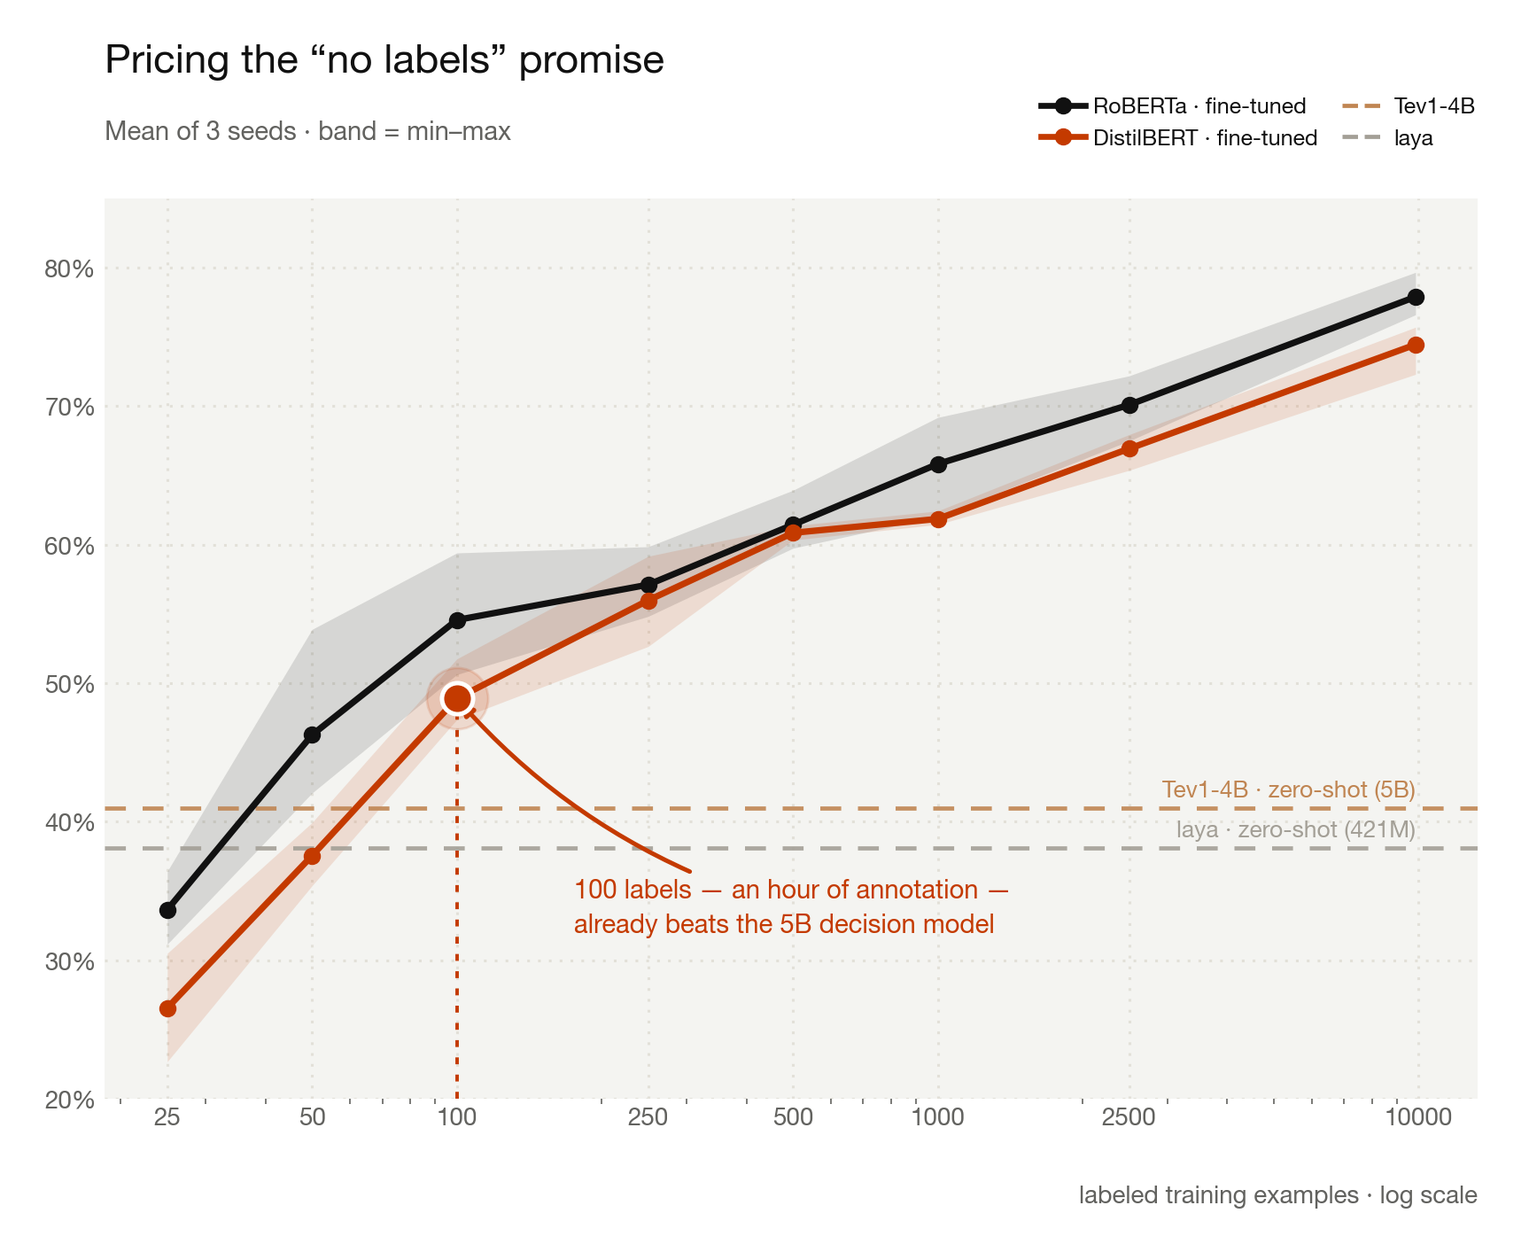
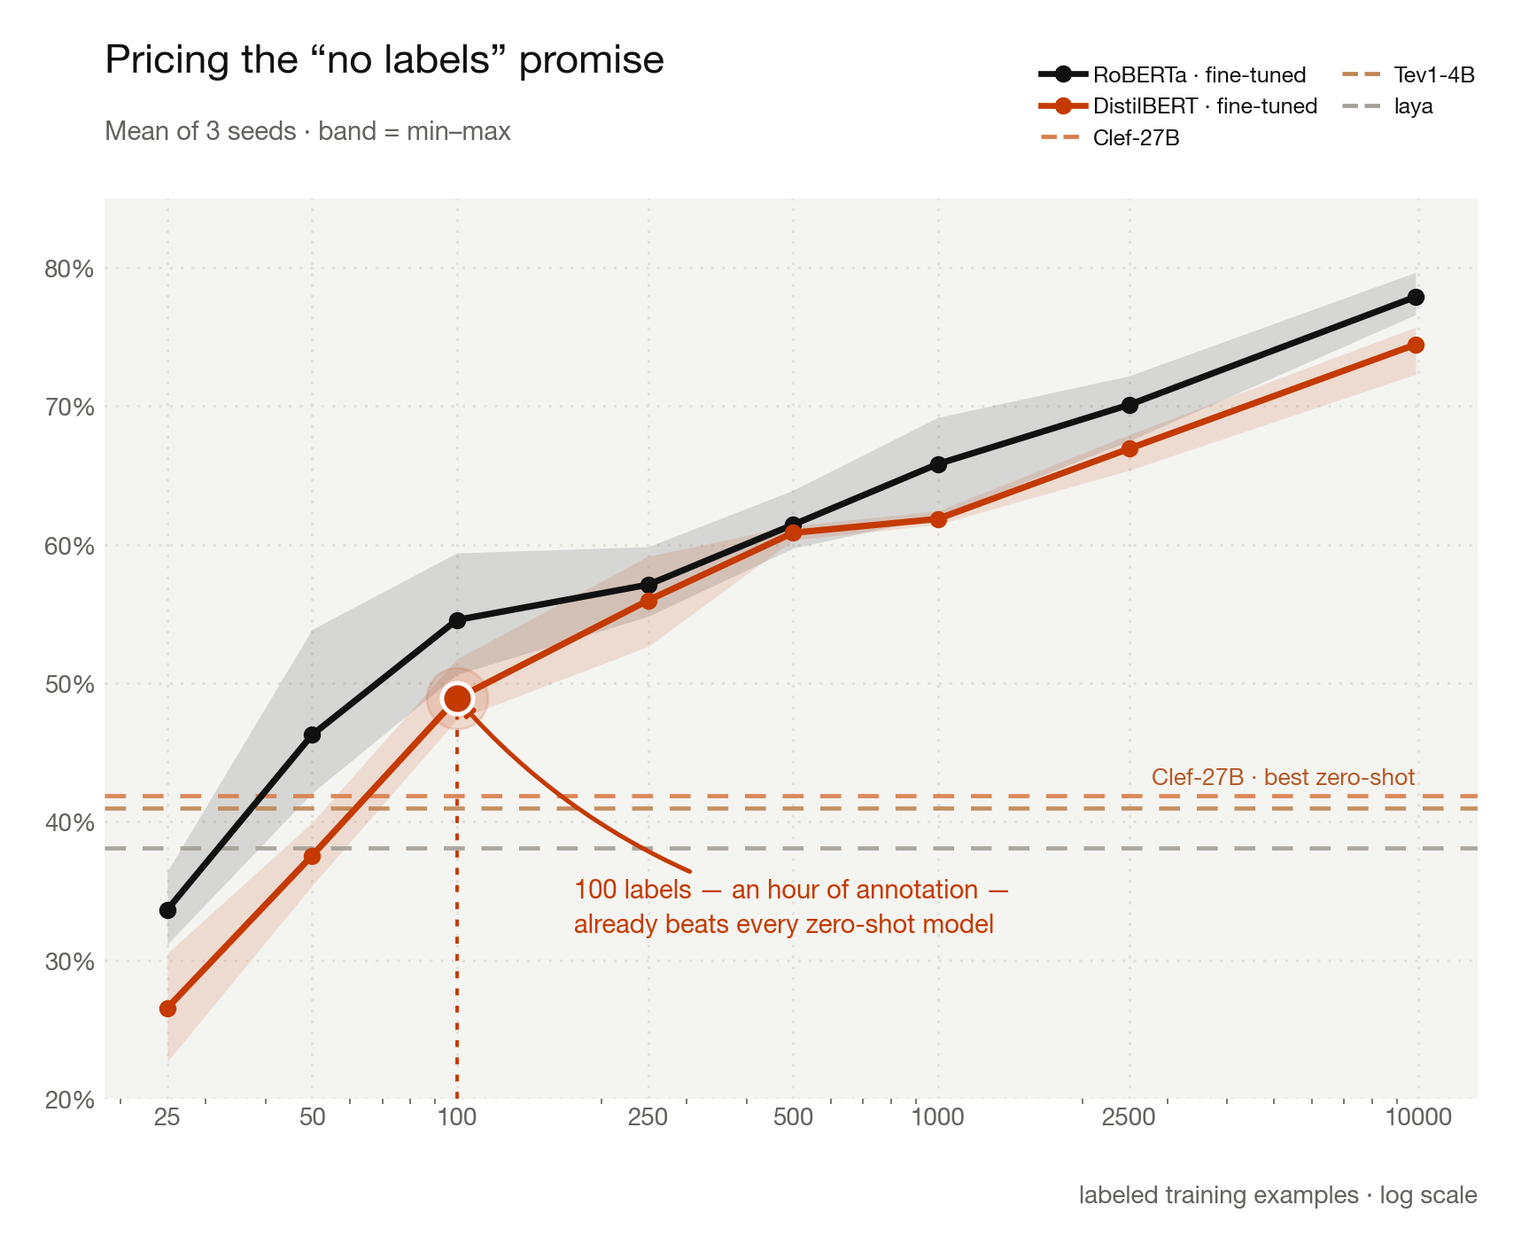
[_posts] - feature: introduce zero-shot plateau analysis
- Added a new post analyzing the performance of various zero-shot models compared to fine-tuned encoders, highlighting the limitations and potential of current approaches.
 - Updated existing post with corrected details on model performance metrics and comparisons to reflect more accurate findings.

diff --git a/_posts/2026-10-12-zero-shot-plateau.md b/_posts/2026-10-12-zero-shot-plateau.md
@@ -1,0 +1,232 @@
+---
+title: "The Zero-Shot Plateau"
+tags: [ blog, nlp, benchmark ]
+date: 2026-10-12
+last_modified_at: 2026-10-12
+---
+
+<img src="{{ '/assets/images/zero-shot-plateau-dumbbell.png' | relative_url }}" alt="Dumbbell chart: seven zero-shot systems from 0.4B to 27B cluster at 0.38-0.47 macro-F1 on a custom taxonomy and at 0.88-0.93 on AG News, all far below a fine-tuned RoBERTa at 0.78" width="1891" height="1158" fetchpriority="high">
+
+My [last post][prev] made a narrow claim: on a classification taxonomy of my own, a
+fine-tuned encoder beats the zero-shot "decision models" everyone shipped this autumn by
+about 30 macro-F1 points, at a fraction of the cost. Four objections fairly came up, all some
+version of "you went easy on the zero-shot side":
+
+- Use a bigger or better zero-shot model.
+- Fine-tune the decision model, then.
+- Escalate the hard cases to a frontier LLM.
+- Route on the confidence scores instead of taking the top label.
+
+So I ran all four on the same dataset split.  The short spoiler: two of the four roads dead-end on the same
+plateau, one works but mostly proves the labels were the point all along, and the last  one works.
+
+Same disclosure as before, so you can discount accordingly: my dataset, my label mapping,
+my class descriptions. Every number shares one seed-42 stratified split (1,232 test
+items), body-only input, macro-F1.
+
+## "Use a bigger zero-shot model"
+
+The obvious gap in the first post was that I never tried a general-purpose LLM. So I added
+Claude Haiku 5.5, which Anthropic had [just repriced][haiku] to $0.10 per million input
+tokens and markets for exactly this: _high-volume classification and routing_. Gave it the same five
+label descriptions every decision model got, without examples.
+
+It scored 0.409, right in the middle of the decision-model pack.
+Here is the whole zero-shot field now, seven systems from 0.4B to 27B parameters, plus two
+that don't disclose a size:
+
+| System | Params | tldr_news (custom) | AG News (benchmark) |
+|---|---|---:|---:|
+| laya | 0.4B | 0.381 | 0.929 |
+| Jev (API) | undisclosed | 0.407 | 0.884 |
+| Haiku 5.5 | generalist | 0.409 | 0.899 |
+| Tev1-4B | ≈5B | 0.410 | 0.896 |
+| Strands Decider | 2B | 0.418 | 0.902 |
+| Clef | 27B | 0.419 | 0.904 |
+| clef-flash | 9B | 0.466 | 0.904 |
+
+From a 0.4B router to a 27B joint-head model to a general-purpose LLM, every zero-shot approach
+lands between 0.38 and 0.47 on my taxonomy and jumps to 0.88-0.93 on AG News. A
+fine-tuned RoBERTa sits at 0.78 on the same split, 30 to 40 points above the entire field,
+for seven cents of training.
+
+The ceiling is informational, a one-line description like
+"Business & Strategy: company news, markets, funding rounds" pins down maybe 40% of my
+editorial calls; the rest lives in conventions that exist only in my labels. No count of
+parameters recovers information that was never in the prompt, and piling in examples only
+inches off the shelf ¹. Cloudflare's distilled 9B clef-flash is the mild exception at 0.47,
+and it still sits over 30 points under RoBERTa. The odd part is that it beats its own 27B
+teacher off-distribution ². My best guess is that the bigger model memorized the training
+mixture harder, which helps on AG News and hurts on mine.
+
+## "Fine-tune the decision model, then"
+
+It was kind of expected that a fine-tuned decider beats a zero-shot one. The real question is
+whether the decision-model architecture (the non-autoregressive head, the calibration training)
+buys anything over a plain encoder once you've spent the labels. So I LoRA-fine-tuned Tev1-4B, same
+prompt format as its zero-shot run, and put it on the label-efficiency curve next to the
+encoders.
+
+<img src="{{ '/assets/images/zero-shot-plateau-labelcurve.png' | relative_url }}" alt="Label-efficiency curves: fine-tuned Tev1-4B starts at 0.45 at 25 labels, RoBERTa catches up by 100 labels, the fine-tunes climb far above the shaded zero-shot band while Haiku's in-context exemplar curve edges just above it and flattens" width="1783" height="1278" loading="lazy">
+
+The honest answer has two halves. The 4B's pretrained prior is a real head start: at 25
+labels it reaches 0.45 while DistilBERT is still at 0.27, because a big model generalizes
+from a handful of examples where a small one is out of its depth. So if you have twenty-five labels and an
+afternoon, the fine-tuned decider is genuinely your best option.
+
+But by 100 labels RoBERTa has drawn level, 0.55 to 0.55, and from there the two curves climb 
+together: the 4B keeps a lead of about two points at
+1,000 labels and at full data (0.80 vs 0.78), a margin about the size of the seed-to-seed
+variance on these curves, for a model that costs seventeen times as much per inference ³.
+Its one lasting edge is calibration: it comes out of fine-tuning at ECE 0.036 with no
+post-hoc scaling, which the encoders need a temperature fit to match. So "fine-tune the
+decider" works. Past about a hundred labels, though, you're paying 4B inference for encoder
+accuracy.
+
+The dashed line in the chart is the third way to spend the same labels: hand them to
+Haiku as in-context exemplars instead of gradients. It follows the zero-shot band until
+about 50 examples, reaches 0.49 at 100, then flattens. A thousand exemplars, about 146k
+tokens of prompt, get it to 0.51, where the same thousand labels fine-tune Tev to 0.68 and
+RoBERTa to 0.66. And every single call re-reads all thousand ¹.
+
+## "Escalate the hard cases"
+
+Now the pattern of the season: let a cheap model answer what it's sure of and route the
+rest to a big one. It's the idea behind every cascade-routing stack shipping right now ⁴,
+and the idea has deep roots. Confidence-based cascading was everywhere in the BERT era:
+[TangoBERT][tango] routed between a small and a large BERT on exactly this signal,
+[CascadeBERT][cascadebert] stacked calibrated models, and the early-exit line (FastBERT,
+DeeBERT, my own [early-exiting series][ee]) did the same trick across layers instead of
+across models. The modern router just puts a decision model in front. All of it rests on
+one assumption the plateau quietly breaks: that the thing you escalate to is better than
+the thing you have.
+
+<img src="{{ '/assets/images/zero-shot-plateau-cascade.png' | relative_url }}" alt="Cascade accuracy versus share escalated to Haiku 5.5: fine-tuned encoder first stages decline from 0.75 toward 0.41 as more is escalated, while zero-shot decider first stages stay flat near 0.41" width="1822" height="1278" loading="lazy">
+
+I simulated every cascade offline. Each first stage answers when its top class probability
+clears a confidence threshold and escalates whatever falls below it, swept across every
+threshold. The routing signal is just the model's own max label probability. Two shapes
+come out. If your first stage is a zero-shot decider, the day-one setup, escalation buys
+nothing: Tev and Clef gain at most 0.4 points at any threshold, and laya only "gains" by
+escalating 91% of its traffic, which is really just handing the whole stream to Haiku. The
+model you escalate to sits on the same plateau; there's nothing above you. If your first
+stage is already a fine-tune, escalation actively hurts: the fine-tune is right 75% of the
+time and Haiku 39%, and even on the low-confidence items the fine-tune hands off, it still
+beats Haiku. So the cascade slides from 0.75 toward 0.39 as you escalate more.
+
+The decline itself is unsurprising; the interesting part is why confidence can't rescue
+it. The errors do decorrelate: an oracle that escalated exactly the fine-tune's mistakes
+would reach 0.84, because Haiku rescues about a third of them. But the items the fine-tune
+is unsure about are mostly the items Haiku gets wrong too, the genuinely ambiguous ones
+that no second opinion resolves, so the confidence signal escalates the wrong examples. And
+it escalates them expensively: every call up to Haiku is roughly $85 per million on top of
+the fine-tune's $1.58, spent to move accuracy backwards. The oracle gap is real and
+permanently out of reach. That's the cascade's hidden dependency made visible: it only
+works when something above you knows your labels. In-distribution something does, which is
+why the pattern works on benchmark-shaped tasks, and why it worked across the layers of the
+BERT cascades, where every exit trained on the same data. On your taxonomy, nothing does
+until you teach it.
+
+## "Route on the confidence scores"
+
+The last objection is the one that works, and it's worth slowing down on, because the
+instinct is right. Routing on confidence is exactly what you should do. The twist is the
+destination: you route the uncertain items to a human, not a bigger model. And whether
+that pays off depends on a property you can measure: does the model know what it doesn't
+know?
+
+<img src="{{ '/assets/images/zero-shot-plateau-coverage.png' | relative_url }}" alt="Bar chart: with validation-chosen thresholds, fine-tuned models auto-handle 39-72% of traffic at the 90% accuracy bar while zero-shot decision models keep under 5%; the same Tev architecture goes from 2% zero-shot to 72% fine-tuned" width="1981" height="1123" loading="lazy">
+
+Sort each model's predictions by confidence and ask how much traffic it can keep for
+itself while staying at least 90% accurate on what it keeps, sending the rest to review.
+To keep it honest, each model's confidence threshold is picked on a held-out validation
+half and then applied, frozen, to the test set. The fine-tuned models carry between a
+third and nearly three quarters of the stream, and their thresholds transfer: kept-item
+accuracy lands within about a point of the bar. The zero-shot decision models, whose
+signature feature is calibrated confidence, keep under 5%, and apart from clef-flash even
+that sliver misses the promise, coming back 69-73% accurate on the items they chose to
+keep.
+
+The cleanest version of the result is the same model twice. Zero-shot, Tev1-4B keeps 2%
+of traffic and is only 71% accurate even on that slice; fine-tuned on my labels, the
+identical architecture keeps 72% and holds the bar. The deciders' calibration machinery is
+genuinely good (Clef's Brier training is excellent in-distribution), but calibration
+leaves the training distribution no better than accuracy does. Across the full confidence
+range the fine-tunes score an area under the risk-coverage curve of 0.07 to 0.14, against
+0.44 to 0.57 for the zero-shot field ⁵. On top of being more accurate, the fine-tune is a
+three-to-eight-times better judge of its own limits, which is the property a router
+actually runs on.
+
+The intuition: a probability is only as trustworthy as the model's sense of where the
+decision boundary lies. Fine-tuning on in-domain labels is what draws that boundary in the
+right place, so the model's confidence starts tracking its correctness on your data, and
+high confidence really does mean likely-right, the one property selective routing needs. A
+zero-shot model is sure about a boundary it learned from someone else's distribution, so on
+your taxonomy its confidence ranks examples by the wrong thing and no threshold cleanly
+separates the predictions worth keeping. That is why the same Tev is useless as a router at
+zero-shot and dependable once fine-tuned: the labels are what make its confidence
+mean something here.
+
+## Where each approach fits
+
+The previous post's conclusion holds; this one fills in the details. Zero-shot decision
+models, and Haiku 5.5 alongside them, are the right call on day one: no labels, a taxonomy
+still in motion, many small tasks behind one endpoint, and anything close to a benchmark
+distribution, where they're fast, cheap, and honestly calibrated.
+
+The moment the taxonomy is yours, every road runs through labels. Twenty-five of them and
+a fine-tuned 4B decider is the best start you can buy. A hundred and a fine-tuned encoder
+matches anything in the field at a fraction of the cost. And the labels are not optional
+even if you stay zero-shot, because the only way to know whether any of this works on your
+data is a labeled eval set, at which point a fine-tune costs seven cents more than the
+measurement you were already paying for, and it's the only option that also knows when to
+ask for help.
+
+The obvious caveat is that this is one dataset: five classes, my labels, my class
+descriptions. Better-written descriptions might move the zero-shot field a few points, and
+a taxonomy closer to news-desk categories would move it a lot, as AG News shows. What I'd
+bet on is the shape: zero-shot scores track how far your labels sit from what the model saw
+in pretraining, and only labels close that distance. The cheapest way to prove me wrong is
+to run the same four roads on your own data.
+
+---
+
+¹ Haiku takes exemplars where the frozen deciders can't, so I swept them: 1, 10, 20, 50,
+100, 300 and 1,000 stratified in-context exemplars score 0.419, 0.435, 0.429, 0.461,
+0.486, 0.504 and 0.515. The climb is real up to about a hundred, then it flattens. At
+1,000 examples Haiku sits 17 points under the Tev fine-tune and 14 under RoBERTa on the
+same labels, and carries ~146k exemplar tokens into every call: roughly $15,000 per
+million classifications at list price, still ~$1,500 with prompt caching, against $1.58
+for the better model.
+
+² clef-flash 0.466 vs Clef 0.419 on my taxonomy, and it's 2.2× faster (152 ms vs 341 ms,
+batch 1 on an H100).
+
+³ About $27 vs $1.58 per million classifications, from the cost model in the
+[previous post][prev].
+
+⁴ For example vLLM-SR's ["decision models need a router"][router], which cascades a small
+decider into a large one on low confidence.
+
+⁵ Area under the risk-coverage curve, lower is better. Fine-tuned Tev 0.07, RoBERTa 0.12,
+DistilBERT 0.14; Clef and clef-flash 0.44, Strands 0.44, Tev zero-shot 0.50, laya 0.57.
+
+**Reproducibility.** Same harness as the [previous post][prev]. Encoders fine-tuned with
+[bert-squeeze][bs] on a Modal L4; laya and Tev zero-shot on L4/T4; Clef and clef-flash
+from their open weights on an H100; Strands Decider from its package on an L4; the Tev
+LoRA fine-tune and sweep on an H100; Haiku 5.5 via the Batch API with a structured-output
+label enum, except the many-shot sweep, which ran through the Nous Portal gateway
+(same model, synchronous API) after the batch workspace hit its monthly spend limit. The cascade and coverage numbers are offline computations over per-item
+probability dumps, aligned across models by text hash; those dumps come from the
+calibration-protocol reruns, whose prompts differ cosmetically from the headline runs, so
+per-model accuracy there can sit a point or two away from the table's macro-F1. Dataset: [tldr_news][ds], five
+content classes, body-only input.
+
+[prev]: /small-specialized-models/
+[haiku]: https://venturebeat.com/technology/anthropic-launches-claude-haiku-5-5-with-90-api-price-reduction-matching-gpt-6-luna
+[router]: https://vllm-sr.ai/blog/system-one-auto/
+[bs]: https://github.com/JulesBelveze/bert-squeeze
+[ds]: https://huggingface.co/datasets/JulesBelveze/tldr_news
+[ee]: https://julesbelveze.github.io/early-exiting/
+[tango]: https://arxiv.org/abs/2204.06271
+[cascadebert]: https://arxiv.org/abs/2012.14682

diff --git a/_posts/2026-10-05-small-specialized-models.md b/_posts/2026-10-05-small-specialized-models.md
@@ -5,7 +5,7 @@ date: 2026-10-05
 last_modified_at: 2026-10-05
 ---
 
-<img src="{{ '/assets/images/small-specialized-cover.png' | relative_url }}" alt="100 labels beat the 5B decision model: fine-tuned encoder label-efficiency curves crossing the Tev1-4B zero-shot line" width="2400" height="1350" fetchpriority="high">
+<img src="{{ '/assets/images/small-specialized-cover.png' | relative_url }}" alt="100 labels beat the 27B decision model: fine-tuned encoder label-efficiency curves crossing the Clef-27B zero-shot line" width="2400" height="1350" fetchpriority="high">
 
 One hot idea of 2026 is the "System-1" decision model: a small, non-autoregressive model
 that classifies without generating text and returns calibrated probabilities in a single
@@ -54,7 +54,7 @@ and my class descriptions. All numbers below share the same seed-42 stratified s
 | DistilBERT-base | fine-tuned | 67M | 0.739 | 5.4 | **3.6** |
 | FastBERT | early-exit | 251M | 0.732 | 11.8 | 8.4 |
 | TheseusBERT | compression | 151M | 0.709 | 4.6 | **3.6** |
-| Clef | zero-shot decision model | 27B | 0.419 | 341.2 ⁴ | n/a ⁴ |
+| Clef | zero-shot decision model | 27B | 0.419 | 341.2 ⁴ | 102.5 ⁴ |
 | Tev1-4B | zero-shot decision model | 5B ¹ | 0.410 | 418.9 | 123.4 |
 | Jev (API) | zero-shot decision model | undisclosed | 0.407 | n/a ² | n/a ² |
 | laya | zero-shot decision model | 421M | 0.381 | 59.9 | n/a ³ |
@@ -63,8 +63,8 @@ and my class descriptions. All numbers below share the same seed-42 stratified s
 ² Jev runs behind TypeSafe's API (p50 round trip ~250 ms); not comparable to local
 single-GPU numbers, so it sits out the latency and cost columns.
 ³ laya's `Router.predict` has no batch API, so it runs single-item.
-⁴ Clef (27B) doesn't fit the L4 used for the other rows; its latency is bs=1 on an H100,
-so it sits out the cost column.
+⁴ Clef (27B) doesn't fit the L4 used for the other rows; its latency and cost come from
+an H100 at $0.001097 per GPU-second.
 
 The gap is not subtle. The *worst* fine-tuned model here, TheseusBERT at 0.709, beats the
 *best* zero-shot decision model, Cloudflare's 27B Clef at 0.419, by 29 macro-F1 points.
@@ -75,7 +75,8 @@ ranking doesn't move, and Tev stays 13-34× slower even batched. FastBERT and Th
 are the compression architectures from my [early-exiting series][ee], trained here with
 [bert-squeeze][bs].
 
-Latency converts directly into money. Batched on a Modal L4 at $0.000222 per GPU-second:
+Latency converts directly into money. Batched on a Modal L4 at $0.000222 per GPU-second
+(Clef on its H100):
 
 | Model | ~$ / 1M classifications |
 |---|---:|
@@ -85,6 +86,7 @@ Latency converts directly into money. Batched on a Modal L4 at $0.000222 per GPU
 | ModernBERT-base | ~$2.15 |
 | laya | ~$13 (single-item; a batch API would cut this substantially) |
 | Tev1-4B | ~$27 |
+| Clef | ~$113 (batched on an H100) |
 
 Plot accuracy against that cost:
 
@@ -123,7 +125,7 @@ reliability diagrams, with one-parameter temperature scaling for the encoders.
 | Jev (API) | 0.40 | 0.472 | 1.028 | 6.910 |
 | Clef | 0.45 | 0.323 | 0.812 | 1.658 |
 
-<img src="{{ '/assets/images/small-specialized-reliability.png' | relative_url }}" alt="Reliability diagram: laya hugs the diagonal, Tev1-4B and the original Jev sit deep in the overconfident region" width="1322" height="1436" loading="lazy">
+<img src="{{ '/assets/images/small-specialized-reliability.png' | relative_url }}" alt="Reliability diagram: laya hugs the diagonal; Tev1-4B, Clef and the original Jev sit deep in the overconfident region" width="1322" height="1436" loading="lazy">
 
 Giving them a fair comparison: laya honors its ECE claim. An expected calibration error of
 0.033 is genuinely good. But it's the calibration of a flat, underconfident distribution.
@@ -138,8 +140,8 @@ near-one-hot distributions while being wrong most of the time: ECE 0.472, NLL 6.
 Calibration, it turns out, is as in-distribution as accuracy. Clef is the strongest
 witness: Cloudflare trains it with an explicit Brier objective, and in-distribution it
 shows, with the best calibration in this whole post (ECE 0.026 on AG News, better than
-the raw encoders). On my taxonomy that same model runs overconfident at ECE 0.323. Its
-reliability curve tracks Tev's, so I left it off the chart for legibility.
+the raw encoders). On my taxonomy that same model runs overconfident at ECE 0.323, its
+reliability curve sitting right alongside Tev's in the chart above.
 
 Two caveats. Temperature scaling itself consumes the labeled validation set: cheap, but
 not zero labels. And at ~1.2k test items, ECE differences under ~0.02 sit inside binning
@@ -153,11 +155,11 @@ So let's price that convenience: fine-tune DistilBERT and RoBERTa on stratified
 subsamples of the training set, three seeds each, and see where they cross the zero-shot
 lines.
 
-<img src="{{ '/assets/images/small-specialized-label-efficiency.png' | relative_url }}" alt="Macro-F1 versus number of labeled training examples: DistilBERT crosses the Tev1-4B line at 100 labels, RoBERTa at 50" width="1726" height="1413" loading="lazy">
+<img src="{{ '/assets/images/small-specialized-label-efficiency.png' | relative_url }}" alt="Macro-F1 versus number of labeled training examples: DistilBERT crosses the best zero-shot line, Clef-27B, at 100 labels, RoBERTa at 50" width="1726" height="1413" loading="lazy">
 
-Twenty-five labels isn't enough. DistilBERT sits at 0.27, below both zero-shot models.
-Fifty ties laya, and RoBERTa already clears Tev on every seed there. At **one hundred
-labels, even DistilBERT beats Tev1-4B on every seed** (0.49 vs 0.41), and from there both
+Twenty-five labels isn't enough. DistilBERT sits at 0.27, below every zero-shot model.
+Fifty ties laya, and RoBERTa already noses past Tev and Clef on every seed there. At **one
+hundred labels, even DistilBERT beats the 27B Clef on every seed** (0.49 vs 0.42), and from there both
 curves just climb: RoBERTa hits 0.55 at 100, 0.66 at 1,000, and 0.78 on the full ~9,850.
 
 A hundred labeled examples is an hour of annotation. The training bill is a rounding
@@ -181,7 +183,7 @@ the benchmark's own.
 | Jev · zero-shot (API) | 0.884 |
 | DistilBERT · fine-tuned on 100 labels | 0.851 |
 
-<img src="{{ '/assets/images/small-specialized-dataset-gap.png' | relative_url }}" alt="Fine-tuned versus zero-shot gap per dataset: 37 points on tldr_news, 1.5 points on AG News" width="1616" height="1290" loading="lazy">
+<img src="{{ '/assets/images/small-specialized-dataset-gap.png' | relative_url }}" alt="Fine-tuned versus zero-shot gap per dataset: 36 points on tldr_news, 1.5 points on AG News" width="1616" height="1290" loading="lazy">
 
 This partially cuts against my headline, and I'm reporting it anyway: on a canonical
 benchmark taxonomy the zero-shot decision models are *good*. laya lands within 1.6 points
